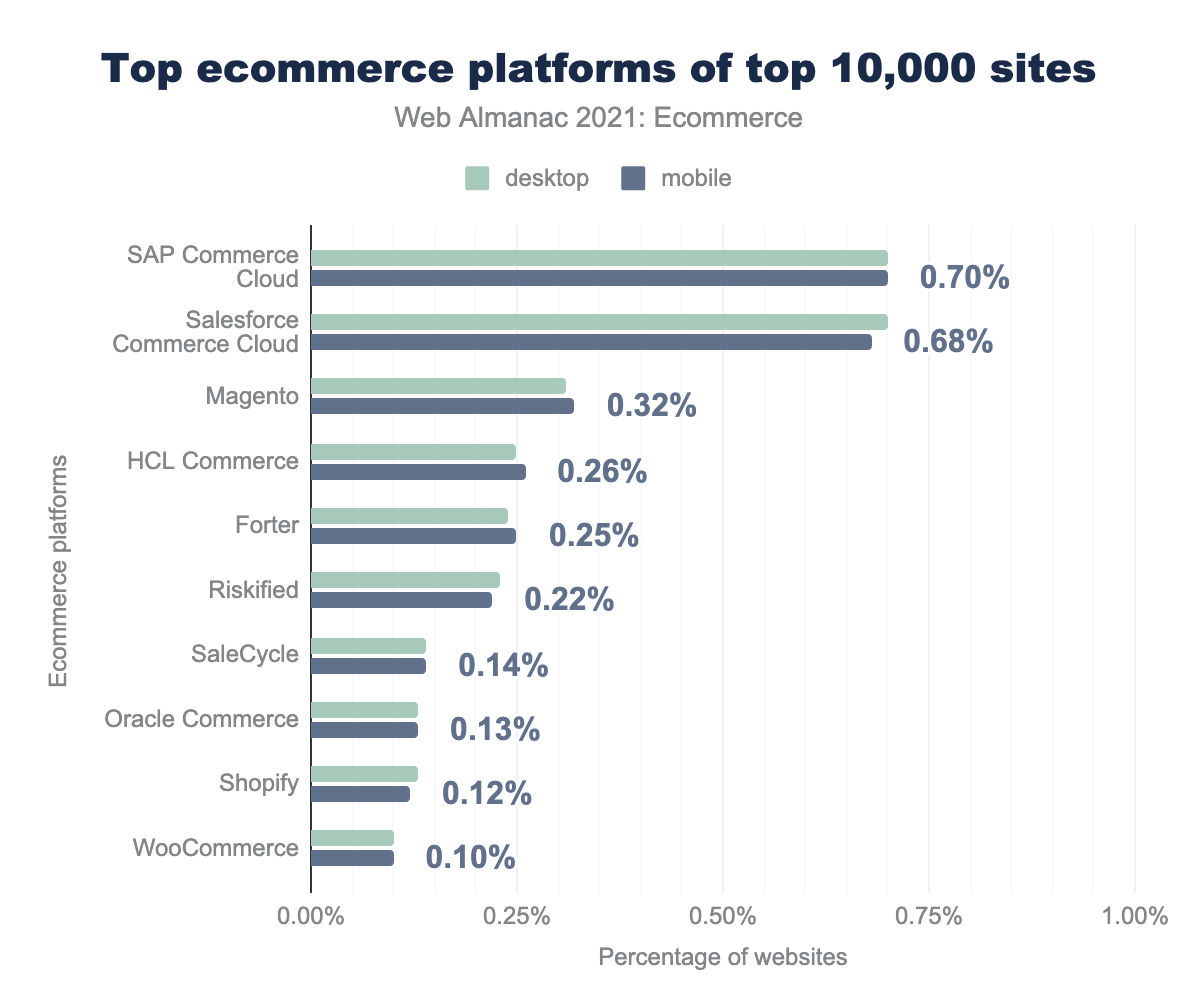
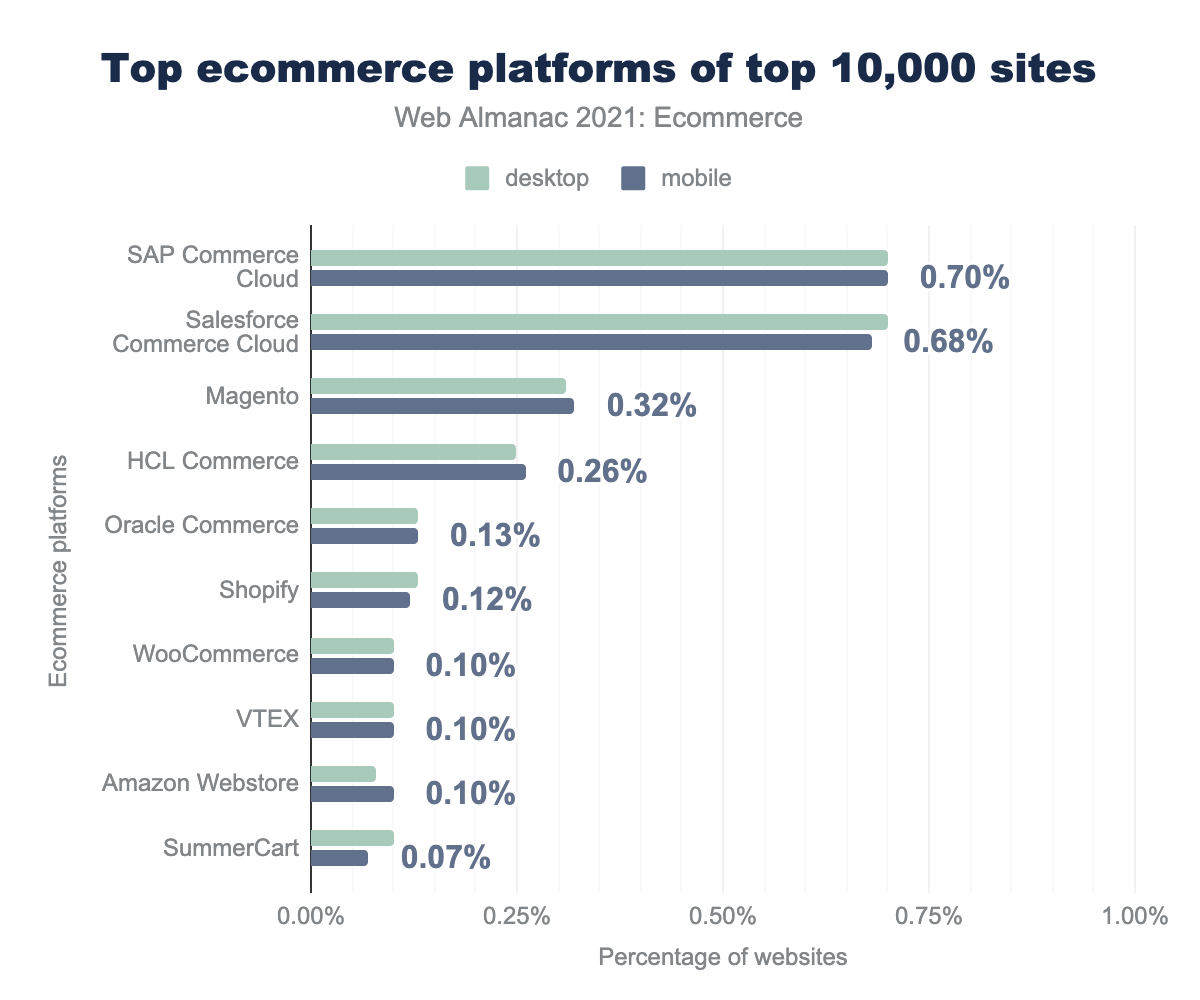
Fix ecommerce charts to ignore some non-ecommerce technologies

diff --git a/src/content/en/2021/ecommerce.md b/src/content/en/2021/ecommerce.md
@@ -130,7 +130,7 @@ Another way to look at the results is to consider the most popular platforms wit
 {{ figure_markup(
   image="top-ecommerce-platforms-top-1m-sites.png",
   caption="Top ecommerce platforms of top 1m sites",
-  description="A bar chart showing in descending order the usage of ecommerce platforms within the top 1 million sites on mobile. 3.49% are WooCommerce, 2.76% are Shopify, 1.48% are Magento, 1.17% are PrestaShop, 0.23% are Shopware, 0.22% are BigCommerce and 0.15% are Salesforce Commerce Cloud",
+  description="A bar chart showing in descending order the usage of ecommerce platforms within the top 1 million sites. 3.49% on mobile are WooCommerce, 2.76% are Shopify, 1.48% are Magento, 1.17% are PrestaShop, 0.25% are Imnisend, 0.23% are Shopware, 0.22% are BigCommerce, 0.19% are Look, 0.15% are Salesforce Commerce Cloud, and 0.14% are VTEX. Desktop usage looks very similar.",
   chart_url="https://docs.google.com/spreadsheets/d/e/2PACX-1vT70VMNXb1X6Mnh69JGhQILb5ImqBkg6MtMpPiZnrNfYXQ7nngGWHO_kj87tAG5FkIyOvpNNYJmkLVY/pubchart?oid=86873602&format=interactive",
   sheets_gid="1491793974",
   sql_file="top_vendors_crux_rank.sql",
@@ -147,7 +147,7 @@ We also see Magento take the third spot over PrestaShop. Wix eCommerce and Squar
 {{ figure_markup(
   image="top-ecommerce-platforms-top-100k-sites.png",
   caption="Top ecommerce platforms of top 100,000 sites",
-  description="A bar chart showing in descending order the usage of ecommerce platforms within the top 100,000 sites on mobile. 1.21% are Magento, 0.88% are Shopify, 0.63% are Salesforce Commerce Cloud, 0.56% are WooCommerce, 0.33% are PrestaShop and 0.30% are SAP Commerce Cloud",
+  description="A bar chart showing in descending order the usage of ecommerce platforms within the top 100,000 sites. On mobile 1.21% are Magento, 0.88% are Shopify, 0.63% are Salesforce Commerce Cloud, 0.56% are WooCommerce, 0.33% are PrestaShop, 0.30% are SAP Commerce Cloud, 0.28% are VTEX, 0.10% are Klevu, 0.10% are HCL Commerce, and finally 0.08% are Imnisend. Desktop usage looks very similar.",
   chart_url="https://docs.google.com/spreadsheets/d/e/2PACX-1vT70VMNXb1X6Mnh69JGhQILb5ImqBkg6MtMpPiZnrNfYXQ7nngGWHO_kj87tAG5FkIyOvpNNYJmkLVY/pubchart?oid=942112971&format=interactive",
   sheets_gid="1491793974",
   sql_file="top_vendors_crux_rank.sql",
@@ -162,7 +162,7 @@ When we consider the top 100,000 sites by CrUX rank the picture changes quite dr
 {{ figure_markup(
   image="top-ecommerce-platforms-top-10k-sites.png",
   caption="Top ecommerce platforms of top 10,000 sites",
-  description="A bar chart showing in descending order the usage of ecommerce platforms within the top 10,000 sites on mobile. 0.70% are SAP Commerce Cloud, 0.68% are Salesforce Commerce Cloud, 0.32% are Magento, 0.26% are HCL Commerce, 0.13% are Oracle Commerce, 0.12% are Shopify and 0.10% are WooCommerce",
+  description="A bar chart showing in descending order the usage of ecommerce platforms within the top 10,000 sites. On mobile 0.70% are SAP Commerce Cloud, 0.68% are Salesforce Commerce Cloud, 0.32% are Magento, 0.26% are HCL Commerce, 0.13% are Oracle Commerce, 0.12% are Shopify, 0.10% are WooCommerce, 0.10% are VTEX, 0.10% are Amazon Webstore, and 0.07% are SummerCart. Desktop usage looks very similar.",
   chart_url="https://docs.google.com/spreadsheets/d/e/2PACX-1vT70VMNXb1X6Mnh69JGhQILb5ImqBkg6MtMpPiZnrNfYXQ7nngGWHO_kj87tAG5FkIyOvpNNYJmkLVY/pubchart?oid=1147944186&format=interactive",
   sheets_gid="1491793974",
   sql_file="top_vendors_crux_rank.sql",
